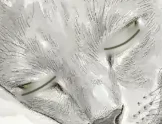
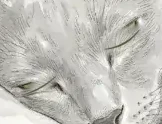
그림첩: 깜빡임 3단계, 털 질감 눈꺼풀, 가늘어지는 눈꺼풀 선
Claude-Session: https://claude.ai/code/session_01HhH72LKYhyWgGrEVdddvEZ

diff --git a/anim.js b/anim.js
@@ -9,20 +9,21 @@
     '.tt-anim>img{position:absolute;inset:0;width:100%;height:100%;object-fit:cover;display:block}' +
     '.tt-breath{animation:ttBreath 5s cubic-bezier(.45,0,.55,1) infinite alternate}' +
     '.tt-eyes{position:absolute}' +
-    '.tt-eyes img{position:absolute;inset:0;width:100%;height:100%;display:block;opacity:0}' +
+    '.tt-eyes img{position:absolute;inset:0;width:100%;height:100%;display:block;opacity:0;transition:opacity 28ms linear}' +
     '@keyframes ttBreath{from{transform:none}to{transform:scale(1.004,1.011)}}';
   document.head.appendChild(css);
   function num(src) { var m = /\/art\/g(\d\d)\.webp/.exec(src || ''); return m ? +m[1] : 0; }
-  function blinkLoop(box, half, closed) {
+  // 눈꺼풀이 내려왔다(빠르게) 올라가요(조금 천천히): 뜬 눈 → 1/3 → 2/3 → 감음 → 2/3 → 1/3 → 뜬 눈
+  function blinkLoop(box, fr) {
+    function show(k) { for (var j = 0; j < fr.length; j++) fr[j].style.opacity = j === k ? 1 : 0; }
     function step() {
       if (!box.isConnected) return;
-      var slow = Math.random() < 0.18, hold = slow ? 380 : 110;
-      half.style.opacity = 1;
-      setTimeout(function () { closed.style.opacity = 1; }, 60);
-      setTimeout(function () { closed.style.opacity = 0; }, 60 + hold);
-      setTimeout(function () { half.style.opacity = 0; }, 120 + hold);
+      var slow = Math.random() < 0.18, hold = slow ? 420 : 90, t = 0;
+      [[0, 0], [1, 35], [2, 35]].forEach(function (a) { t += a[1]; setTimeout(function () { show(a[0]); }, t); });
+      t += hold;
+      [[1, 0], [0, slow ? 90 : 55], [-1, slow ? 90 : 55]].forEach(function (a) { t += a[1]; setTimeout(function () { show(a[0]); }, t); });
       var next = 3000 + Math.random() * 3000;
-      if (!slow && Math.random() < 0.2) next = 380; // 가끔 두 번 연달아
+      if (!slow && Math.random() < 0.2) next = t + 260; // 가끔 두 번 연달아
       setTimeout(step, next);
     }
     setTimeout(step, 800 + Math.random() * 2500);
@@ -48,10 +49,11 @@
         w.className += ' tt-breath'; w.style.animationDuration = dur;
         w.style.transformOrigin = ((ox - e[0]) / e[2] * 100) + '% ' + ((oy - e[1]) / e[3] * 100) + '%';
       }
-      var p = './art/blink/g' + (n < 10 ? '0' : '') + n, half = new Image(), closed = new Image();
-      half.src = p + '-half.webp?v=2'; closed.src = p + '-closed.webp?v=2'; half.alt = closed.alt = '';
-      w.appendChild(half); w.appendChild(closed); box.appendChild(w);
-      blinkLoop(box, half, closed);
+      var p = './art/blink/g' + (n < 10 ? '0' : '') + n, fr = ['q', 'half', 'closed'].map(function (k) {
+        var x = new Image(); x.src = p + '-' + k + '.webp?v=3'; x.alt = ''; w.appendChild(x); return x;
+      });
+      box.appendChild(w);
+      blinkLoop(box, fr);
     }
     img.parentNode.insertBefore(box, img.nextSibling);
   }

diff --git a/sw.js b/sw.js
@@ -1,6 +1,6 @@
 // 톡톡 오프라인 실행 (버전 202611041840)
-const CACHE = 'ttokttok-202611082040o';
-const SHELL = ["./","./index.html","./app-5b0082f1.js?v=4","./app-21865120.css","./theme.css?v=7","./pwa.js?v=2","./back.js?v=2","./push.js?v=1","./mood.js?v=4","./rooms.js?v=16","./account.js?v=1","./anim.js?v=6","./manifest.webmanifest?v=6","./icon-192.png?v=6","./icon-512.png?v=6","./icon-180.png?v=6","./favicon.svg?v=6","./art/m01.webp?v=2","./art/m02.webp?v=2","./art/m03.webp?v=2","./art/m04.webp?v=2","./art/m05.webp?v=2","./art/m06.webp?v=2","./art/m07.webp?v=2","./art/m08.webp?v=2","./art/m09.webp?v=2","./art/m10.webp?v=2","./art/m11-orig.webp?v=2","./art/g01.webp?v=1","./art/g02.webp?v=1","./art/g03.webp?v=1","./art/g04.webp?v=1","./art/g05.webp?v=1","./art/g06.webp?v=1","./art/g07.webp?v=1","./art/g08.webp?v=1","./art/g09.webp?v=1","./art/g10.webp?v=1","./art/g11.webp?v=1","./art/g12.webp?v=1","./privacy.html","./art/m12.webp?v=2"];
+const CACHE = 'ttokttok-202611082050p';
+const SHELL = ["./","./index.html","./app-5b0082f1.js?v=4","./app-21865120.css","./theme.css?v=7","./pwa.js?v=2","./back.js?v=2","./push.js?v=1","./mood.js?v=4","./rooms.js?v=16","./account.js?v=1","./anim.js?v=7","./manifest.webmanifest?v=6","./icon-192.png?v=6","./icon-512.png?v=6","./icon-180.png?v=6","./favicon.svg?v=6","./art/m01.webp?v=2","./art/m02.webp?v=2","./art/m03.webp?v=2","./art/m04.webp?v=2","./art/m05.webp?v=2","./art/m06.webp?v=2","./art/m07.webp?v=2","./art/m08.webp?v=2","./art/m09.webp?v=2","./art/m10.webp?v=2","./art/m11-orig.webp?v=2","./art/g01.webp?v=1","./art/g02.webp?v=1","./art/g03.webp?v=1","./art/g04.webp?v=1","./art/g05.webp?v=1","./art/g06.webp?v=1","./art/g07.webp?v=1","./art/g08.webp?v=1","./art/g09.webp?v=1","./art/g10.webp?v=1","./art/g11.webp?v=1","./art/g12.webp?v=1","./privacy.html","./art/m12.webp?v=2"];
 self.addEventListener('install', e => { e.waitUntil(caches.open(CACHE).then(c => c.addAll(SHELL.map(u => new Request(u, { cache: 'reload' })))).then(() => self.skipWaiting())); });
 self.addEventListener('activate', e => { e.waitUntil(caches.keys().then(ks => Promise.all(ks.filter(k => k !== CACHE).map(k => caches.delete(k)))).then(() => self.clients.claim())); });
 self.addEventListener('fetch', e => {

diff --git a/index.html b/index.html
@@ -21,7 +21,7 @@
 <script src="./mood.js?v=4" defer></script>
 <script src="./rooms.js?v=16" defer></script>
 <script src="./account.js?v=1" defer></script>
-<script src="./anim.js?v=6" defer></script>
+<script src="./anim.js?v=7" defer></script>
 <style>
 .pic-btn{display:block;width:100%;border:0;padding:0;margin-top:10px;cursor:pointer;touch-action:manipulation;-webkit-tap-highlight-color:transparent;box-shadow:0 10px 26px rgba(20,40,75,.16);font:inherit}
 .board-in{position:absolute;inset:0}
